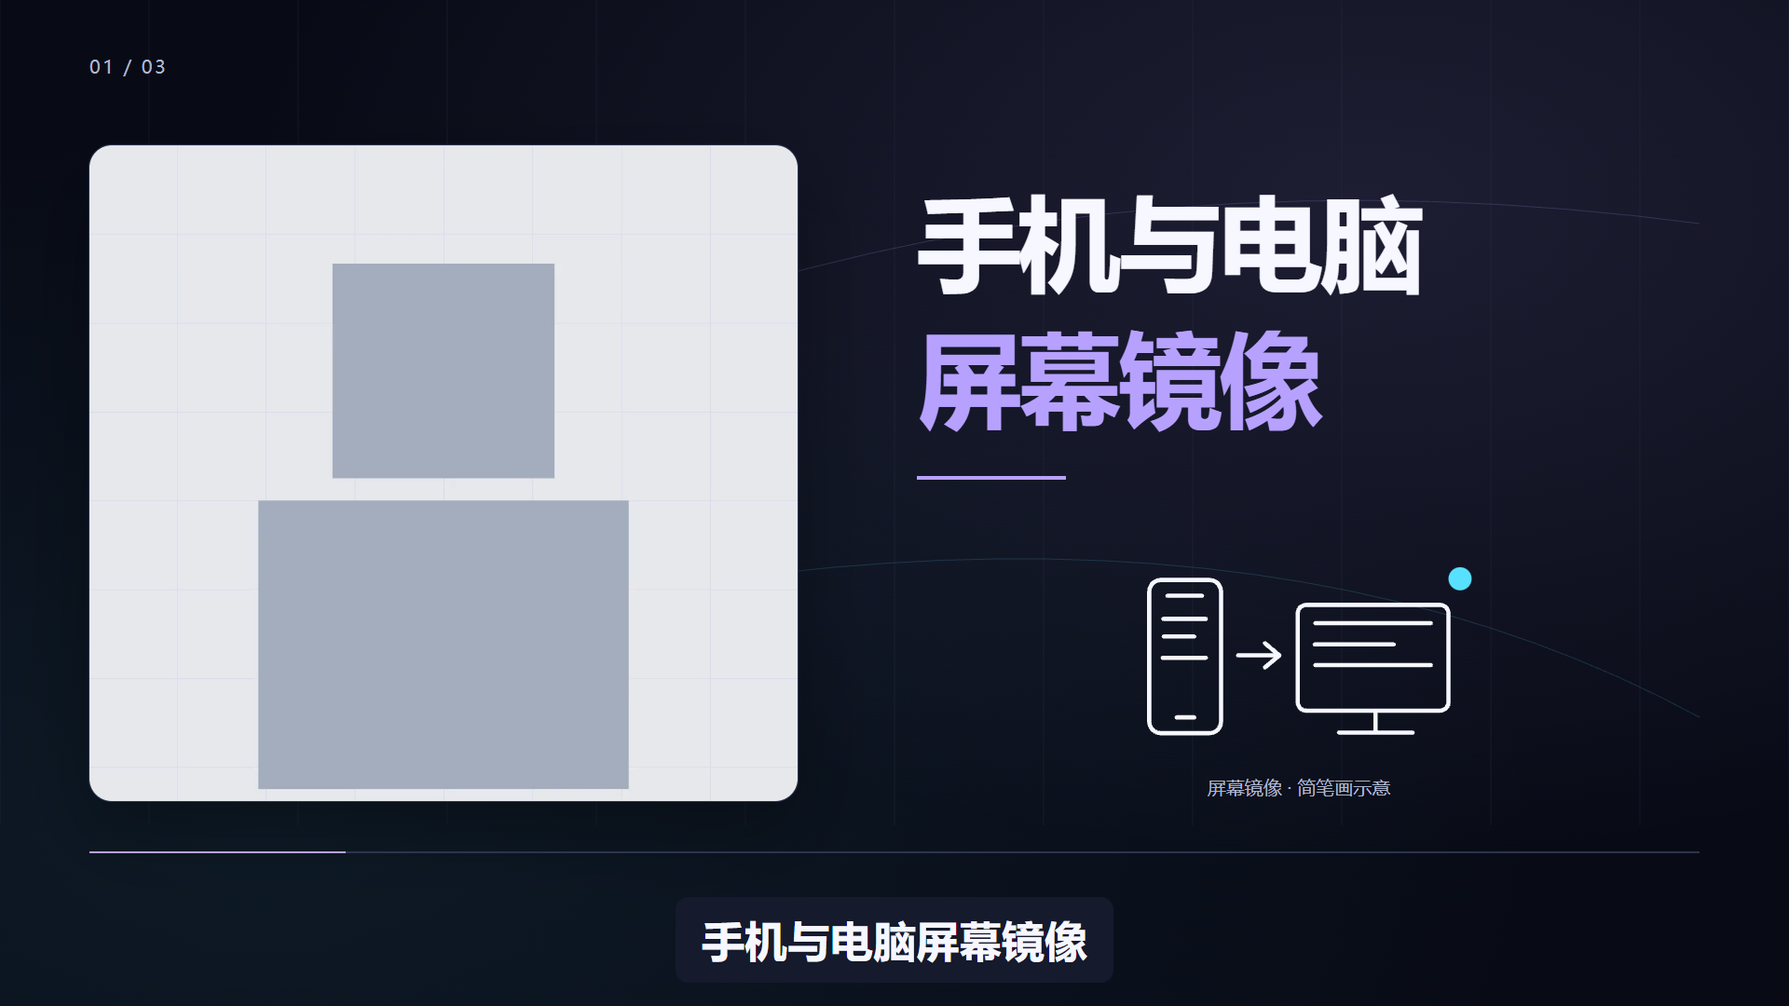
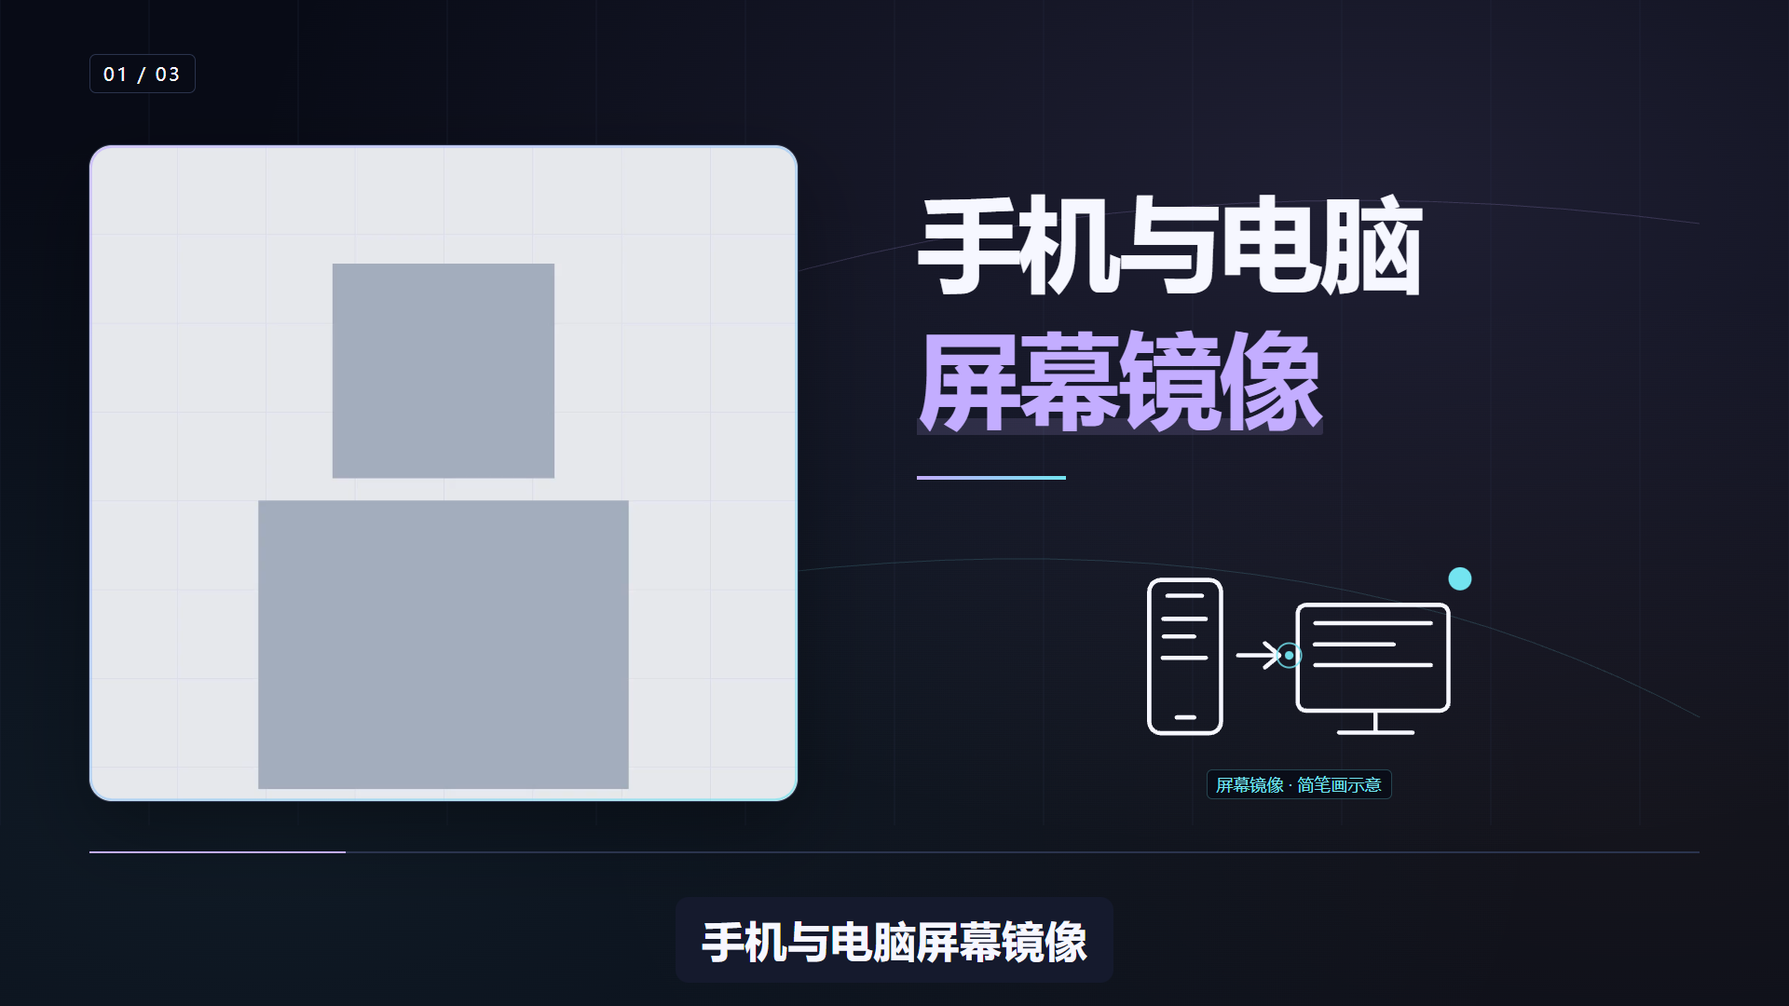
feat: refine motion rhythm layout and semantic color roles

diff --git a/packages/remotion-renderer/src/EditorialPresenterVideo.tsx b/packages/remotion-renderer/src/EditorialPresenterVideo.tsx
@@ -34,13 +34,21 @@ const weight = (text: string) => Array.from(text).reduce((n, char) => n + (char.
 const fontSize = (text: string, width: number, maximum: number) => Math.max(20, Math.min(maximum, Math.floor(width / Math.max(1, weight(text)))));
 const font = '"Microsoft YaHei","Noto Sans SC",Arial,system-ui,sans-serif';
 
+export const editorialPalette = (paper: boolean) => paper
+  ? {bg: '#F3F1FA', panel: '#FFFFFF', ink: '#201D32', muted: '#615974', main: '#6342C7', sub: '#007477', result: '#A9431E', line: '#D5CEE5'}
+  : {bg: '#080B16', panel: '#151A2D', ink: '#F6F7FF', muted: '#ADB6CF', main: '#C3ADFF', sub: '#73E4F0', result: '#FFC799', line: '#2B344E'};
+
 const Emphasis = ({lines, highlight, width, size, local, fps, color, ink}: {
   lines: string[]; highlight: number; width: number; size: number; local: number; fps: number; color: string; ink: string;
 }) => <div style={{width}}>{lines.map((text, index) => {
   const k = out((local - fps * (.28 + index * .11)) / (fps * .38));
+  const marker = smooth((local - fps * (.54 + index * .11)) / (fps * .28));
   return <div key={index} style={{overflow: 'hidden', paddingBottom: 12}}>
     <div style={{fontSize: fontSize(text, width, size), fontWeight: 900, lineHeight: 1.2, letterSpacing: '-.035em',
-      color: index === highlight ? color : ink, whiteSpace: 'nowrap', transform: `translateY(${(1 - k) * 108}%)`}}>{text}</div>
+      color: index === highlight ? color : ink, whiteSpace: 'nowrap', transform: `translateY(${(1 - k) * 108}%)`}}>
+      <span style={{position: 'relative', display: 'inline-block'}}>{index === highlight ? <span style={{position: 'absolute', left: -4, right: -4, bottom: '3%', height: '13%',
+        background: `${color}25`, transform: `scaleX(${marker})`, transformOrigin: 'left', borderRadius: 3}}/> : null}<span style={{position: 'relative'}}>{text}</span></span>
+    </div>
   </div>;
 })}</div>;
 
@@ -55,14 +63,16 @@ export const EditorialPresenterVideo = ({storyboard: s, cues}: {storyboard: Stor
   const leave = index === s.beats.length - 1 ? 1 : smooth((duration - local) / (s.fps * .16));
   const ready = out((local - s.fps * .22) / (s.fps * .28)) * leave;
   const paper = s.publicStyle === 'paper';
-  const c = paper ? {bg: '#F3F1FA', panel: '#FFFFFF', ink: '#201D32', muted: '#615974', main: '#6342C7', sub: '#007477', line: '#D5CEE5'}
-    : {bg: '#080B16', panel: '#151A2D', ink: '#F6F7FF', muted: '#ADB6CF', main: '#B7A1FF', sub: '#58E1FF', line: '#2B344E'};
+  const c = editorialPalette(paper);
   const rect = presenterRectAt(s, frame);
   const focus = mode === 'focus' && s.liteCamera ? .06 * Math.min(smooth(local / (s.fps * .4)), smooth((duration - 1 - local) / (s.fps * .4))) : 0;
   const sourceScale = Math.max(rect.w / 1920, rect.h / 886) * (1 + focus);
   const videoWidth = 1920 * sourceScale; const videoHeight = 1080 * sourceScale;
   const direction = beat.liteDirection;
   const doodle = direction?.doodle;
+  const emphasisColor = mode === 'closing' || mode === 'process' ? c.result : c.main;
+  const drawingColor = doodle?.type === 'agent-output' ? c.result : c.sub;
+  const borderDraw = smooth((local - s.fps * .08) / (s.fps * .65));
   const lines = direction?.lines ?? (beat.liteLayout === 'flow' ? (beat.liteItems ?? []).map((text) => Array.from(text).slice(0, 24).join('')) : [beat.content.structure === 'thesis-and-proof' ? beat.content.thesis : beat.text]);
   const label = direction?.eyebrow ?? '';
   const cue = cues.find((q) => q.start <= frame / s.fps && q.end > frame / s.fps);
@@ -71,7 +81,7 @@ export const EditorialPresenterVideo = ({storyboard: s, cues}: {storyboard: Stor
   const width = mode === 'hero' ? 820 : mode === 'focus' || mode === 'closing' ? 500 : 820;
   return <AbsoluteFill style={{width: 1920, height: 1080, right: 'auto', bottom: 'auto', transform: `scale(${s.width / 1920})`,
     transformOrigin: '0 0', background: c.bg, overflow: 'hidden', fontFamily: font, color: c.ink}}>
-    <AbsoluteFill style={{background: `radial-gradient(ellipse at ${75 + Math.sin(frame / 150) * 5}% 20%, ${c.main}20, transparent 58%), radial-gradient(ellipse at 15% 82%, ${c.sub}12, transparent 60%)`}}/>
+    <AbsoluteFill style={{background: `radial-gradient(ellipse at ${75 + Math.sin(frame / 150) * 5}% 20%, ${c.main}20, transparent 58%), radial-gradient(ellipse at 15% 82%, ${c.sub}12, transparent 60%), radial-gradient(ellipse at 92% 82%, ${c.result}0D, transparent 46%)`}}/>
     <svg width="1920" height="886" style={{position: 'absolute', left: 0, top: 0}} aria-hidden>
       {Array.from({length: 13}, (_, i) => <line key={i} x1={i * 160} x2={i * 160} y1="0" y2="886" stroke={c.line} opacity=".3"/>)}
       <path d="M96 660 Q840 110 1824 240" fill="none" stroke={c.main} strokeWidth="1" opacity=".18"/>
@@ -83,36 +93,45 @@ export const EditorialPresenterVideo = ({storyboard: s, cues}: {storyboard: Stor
       <Video src={staticFile(s.source.video)} disallowFallbackToOffthreadVideo
         style={{position: 'absolute', width: videoWidth, height: videoHeight,
           left: (rect.w - videoWidth) / 2, top: -focus * 250, maxWidth: 'none'}}/>
+      <svg width="100%" height="100%" viewBox={`0 0 ${rect.w} ${rect.h}`} style={{position: 'absolute', inset: 0, pointerEvents: 'none', opacity: rect.r / 24 * .65}} aria-hidden>
+        <defs><linearGradient id="presenter-border" x1="0%" y1="0%" x2="100%" y2="100%"><stop stopColor={c.main}/><stop offset="1" stopColor={c.sub}/></linearGradient></defs>
+        <rect x="1.5" y="1.5" width={rect.w - 3} height={rect.h - 3} rx={Math.max(0, rect.r - 1)} fill="none" stroke="url(#presenter-border)" strokeWidth="2.5" pathLength="1"
+          strokeDasharray="1" strokeDashoffset={1 - borderDraw}/>
+      </svg>
     </div>
     <div style={{position: 'absolute', left: 96, right: 96, top: 58, display: 'flex', justifyContent: 'space-between',
       fontSize: 20, letterSpacing: '.12em', color: c.muted, zIndex: 4, opacity: ready,
       textShadow: mode === 'focus' || mode === 'closing' ? '0 2px 10px #000' : undefined}}>
-      <span style={{color: mode === 'focus' || mode === 'closing' ? '#FFFFFF' : c.muted}}>{String(index + 1).padStart(2, '0')} / {String(s.beats.length).padStart(2, '0')}</span>
+      <span style={{color: c.ink, background: `${c.bg}DB`, padding: '7px 14px', borderRadius: 7, border: `1px solid ${c.line}`}}>{String(index + 1).padStart(2, '0')} / {String(s.beats.length).padStart(2, '0')}</span>
       <span style={{color: c.main}}>{label}</span>
     </div>
     {mode === 'process' ? <div style={{...textStyle, left: 120, top: doodle ? 170 : 226, width: 1000}}>
-      <div style={{height: 4, width: 130 * ready, background: c.main, marginBottom: 32}}/>
+      <div style={{height: 4, width: 130 * ready, background: c.result, marginBottom: 26}}/>
       {lines.map((text, i) => {
         const k = out((local - s.fps * (.3 + i * .14)) / (s.fps * .36));
-        return <div key={i} style={{display: 'flex', alignItems: 'center', gap: 32, borderBottom: `1px solid ${c.line}`,
-          padding: doodle ? '14px 0' : '26px 0', opacity: k, transform: `translateX(${(1 - k) * -40}px)`}}>
-          <span style={{fontSize: 24, color: c.sub}}>0{i + 1}</span>
-          <div style={{fontSize: fontSize(text, 820, doodle ? 82 : 100), fontWeight: 900, lineHeight: 1.22, whiteSpace: 'nowrap', color: i === (direction?.highlight ?? lines.length - 1) ? c.main : c.ink}}>{text}</div>
+        const selected = i === (direction?.highlight ?? lines.length - 1);
+        return <div key={i} style={{display: 'flex', alignItems: 'center', gap: 28, border: `1px solid ${c.line}`, borderLeft: `3px solid ${selected ? c.result : c.sub}`,
+          borderRadius: 12, marginBottom: 10, background: selected ? `${c.result}12` : `${c.panel}66`,
+          padding: '12px 18px', opacity: k, transform: `translateX(${(1 - k) * -40}px)`}}>
+          <span style={{fontSize: 20, color: selected ? c.result : c.sub, border: `1px solid ${selected ? c.result : c.sub}55`, borderRadius: 7, padding: '8px 10px'}}>0{i + 1}</span>
+          <div style={{fontSize: fontSize(text, 780, doodle ? 70 : 96), fontWeight: 900, lineHeight: 1.22, whiteSpace: 'nowrap', color: selected ? c.result : c.ink}}>{text}</div>
         </div>;
       })}
     </div> : <div style={{...textStyle, left: x, top: mode === 'closing' ? (doodle ? 230 : 640) : mode === 'focus' ? 230 : doodle ? 190 : 285,
-      ...(mode === 'focus' || mode === 'closing' ? {background: `${c.bg}ED`, padding: 30, borderLeft: `4px solid ${c.main}`, borderRadius: '0 16px 16px 0'} : {})}}>
+      ...(mode === 'focus' || mode === 'closing' ? {background: `${c.bg}ED`, padding: 30, borderLeft: `4px solid ${emphasisColor}`, borderRadius: '0 16px 16px 0'} : {})}}>
       {label && <div style={{fontSize: 24, color: c.sub, marginBottom: 28, letterSpacing: '.04em'}}>{label}</div>}
       <Emphasis lines={lines} highlight={direction?.highlight ?? lines.length - 1} width={width} size={mode === 'focus' || mode === 'closing' ? 74 : doodle ? 112 : 132}
-        local={local} fps={s.fps} color={c.main} ink={c.ink}/>
-      <div style={{width: 160 * ready, height: 4, background: c.main, marginTop: 28}}/>
+        local={local} fps={s.fps} color={emphasisColor} ink={c.ink}/>
+      <div style={{width: 160 * ready, height: 4, background: `linear-gradient(90deg,${emphasisColor},${c.sub})`, marginTop: 28}}/>
     </div>}
     {doodle ? <div data-source-doodle={doodle.type} style={{position: 'absolute', zIndex: 3,
       left: mode === 'hero' ? 984 : 120, top: 590, width: mode === 'focus' || mode === 'closing' ? 540 : mode === 'process' ? 960 : 820,
       height: 264, opacity: ready, color: c.muted,
       ...(mode === 'focus' || mode === 'closing' ? {background: `${c.bg}F0`, borderRadius: 16, padding: 12, boxSizing: 'border-box'} : {})}}>
-      <div style={{height: mode === 'focus' || mode === 'closing' ? 210 : 235}}><SourceDoodle type={doodle.type} progress={out((local - s.fps * .48) / (s.fps * .55))} accent={c.sub} ink={c.ink}/></div>
-      <div style={{fontSize: 20, textAlign: 'center', marginTop: 7}}>{doodle.label} · 简笔画示意</div>
+      <div style={{height: mode === 'focus' || mode === 'closing' ? 210 : 235}}><SourceDoodle type={doodle.type} progress={out((local - s.fps * .48) / (s.fps * .55))}
+        actionProgress={smooth((local - s.fps * .85) / (s.fps * .42))} accent={drawingColor} ink={c.ink}/></div>
+      <div style={{fontSize: 18, textAlign: 'center', marginTop: 5}}><span style={{color: drawingColor, border: `1px solid ${drawingColor}44`, padding: '3px 10px', borderRadius: 6,
+        background: `${c.bg}CE`}}>{doodle.label} · 简笔画示意</span></div>
     </div> : null}
     <div style={{position: 'absolute', left: 96, right: 96, top: 914, height: 2, background: c.line, zIndex: 4}}>
       <div style={{height: '100%', width: `${clamp(frame / (Math.ceil(s.duration * s.fps) - 1)) * 100}%`, background: c.main}}/>

diff --git a/packages/remotion-renderer/src/illustrations/SourceDoodle.tsx b/packages/remotion-renderer/src/illustrations/SourceDoodle.tsx
@@ -8,20 +8,25 @@ type DoodleType = (typeof PUBLIC_DOODLE_TYPES)[number];
 /** Generic conceptual diagrams. No logos, screenshots or claims of device operation. */
 export const SourceDoodle = ({type, ...props}: IllustrationProps & {type: DoodleType}): ReactElement => {
   const shared = {...props, normalized: true};
-  if (type === 'phone-mirror') return <Frame {...shared}>
+  const a = Math.max(0, Math.min(1, props.actionProgress ?? 0));
+  const route = (from: number, to: number, y: number) => <g data-doodle-action="source-to-result" opacity={props.progress > .7 ? 1 : 0}>
+    <circle cx={from + (to - from) * a} cy={y} r="7" fill={props.accent} opacity={a > 0 && a < 1 ? .95 : 0}/>
+    <circle cx={to} cy={y} r={8 + 12 * a} stroke={props.accent} strokeWidth="3" fill="none" opacity={a * .8}/>
+  </g>;
+  if (type === 'phone-mirror') return <Frame {...shared} overlay={route(220, 304, 174)}>
     <rect x="74" y="50" width="118" height="252" rx="19"/>
     <path d="M104 76h57M119 276h29M97 114h70M98 143h50M96 178h71"/>
     <rect x="318" y="91" width="248" height="174" rx="14"/>
     <path d="M347 121h190M346 156h130M347 190h190M446 266v34M386 301h121M220 174h68m-24-20 24 20-24 20"/>
   </Frame>;
-  if (type === 'notes') return <Frame {...shared}>
+  if (type === 'notes') return <Frame {...shared} overlay={route(240, 339, 174)}>
     <path d="M72 77h124v176H72zM96 59h124v176M96 117h69M96 150h69M96 184h44"/>
     <path d="M240 174h75m-23-20 23 20-23 20"/>
     <rect x="358" y="53" width="196" height="254" rx="14"/>
     <path d="M385 88h138M386 125h111M386 162h137M386 199h93M387 249h87"/>
     <path d="m492 247 36-40 14 14-36 40-25 12zM528 207l14 14" stroke={props.accent}/>
   </Frame>;
-  if (type === 'agent-output') return <Frame {...shared}>
+  if (type === 'agent-output') return <Frame {...shared} overlay={route(281, 395, 181)}>
     <rect x="92" y="100" width="166" height="166" rx="21"/>
     <rect x="129" y="136" width="92" height="93" rx="12"/>
     <path d="M116 76v24M154 76v24M192 76v24M230 76v24M116 266v24M154 266v24M192 266v24M230 266v24M66 128h26M66 168h26M66 208h26M66 246h26"/>

diff --git a/tests/public-lite.test.ts b/tests/public-lite.test.ts
@@ -7,7 +7,7 @@ import {liteCameraScale, liteFlowFontSize} from '../packages/remotion-renderer/s
 import {buildCompositionPlan} from '../packages/remotion-renderer/src/VideoPackaging';
 import {generateHyperFramesProject} from '../packages/hyperframes-adapter/src/generate';
 import {selectRepresentativeBeats} from '../scripts/lib/artifact-qa';
-import {presenterRectAt} from '../packages/remotion-renderer/src/EditorialPresenterVideo';
+import {editorialPalette, presenterRectAt} from '../packages/remotion-renderer/src/EditorialPresenterVideo';
 
 const input = {
   id: 'public-test', title: 'Public test', edition: 'public-lite' as const,
@@ -17,6 +17,21 @@ const input = {
 };
 
 describe('public-lite product boundary', () => {
+  it('keeps every typography color readable against both stable surfaces', () => {
+    const luminance = (hex: string) => {
+      const values = [1, 3, 5].map((i) => parseInt(hex.slice(i, i + 2), 16) / 255).map((v) => v <= .04045 ? v / 12.92 : ((v + .055) / 1.055) ** 2.4);
+      return values[0] * .2126 + values[1] * .7152 + values[2] * .0722;
+    };
+    for (const paper of [false, true]) {
+      const palette = editorialPalette(paper);
+      for (const foreground of [palette.ink, palette.muted, palette.main, palette.sub, palette.result]) {
+        for (const background of [palette.bg, palette.panel]) {
+          const a = luminance(foreground); const b = luminance(background);
+          expect((Math.max(a, b) + .05) / (Math.min(a, b) + .05)).toBeGreaterThanOrEqual(4.5);
+        }
+      }
+    }
+  });
   it('keeps semantic doodle labels traceable to the spoken source', () => {
     const cues = [{index: 1, start: 0, end: 4, text: '通过手机与电脑的屏幕镜像完成展示'}];
     const plan = planStoryboard({...input, cues, probe: {...input.probe, duration: 4}, litePresenter: true,

diff --git a/packages/remotion-renderer/test/illustrations.test.tsx b/packages/remotion-renderer/test/illustrations.test.tsx
@@ -7,6 +7,15 @@ import {SourceDoodle} from '../src/illustrations/SourceDoodle';
 import {PUBLIC_DOODLE_TYPES} from '../../core/src/schema';
 
 describe('illustrationRegistry', () => {
+  it('advances and settles conceptual route indicators without restarting the drawing', () => {
+    const middle = renderToStaticMarkup(<SourceDoodle type="phone-mirror" progress={1} actionProgress={.5} accent="#73E4F0" ink="#F6F7FF"/>);
+    const end = renderToStaticMarkup(<SourceDoodle type="phone-mirror" progress={1} actionProgress={1} accent="#73E4F0" ink="#F6F7FF"/>);
+    expect(middle).toContain('data-doodle-action="source-to-result"');
+    expect(middle).toContain('cx="262"');
+    expect(end).toContain('cx="304"');
+    expect(end).toContain('stroke-dashoffset:0');
+    expect(end).toBe(renderToStaticMarkup(<SourceDoodle type="phone-mirror" progress={1} actionProgress={1} accent="#73E4F0" ink="#F6F7FF"/>));
+  });
   it('supports new source diagrams and legacy drawings with normalized strokes and selected ink', () => {
     for (const type of PUBLIC_DOODLE_TYPES) {
       const markup = renderToStaticMarkup(<SourceDoodle type={type} progress={.5} accent="#58E1FF" ink="#F6F7FF"/>);

diff --git a/packages/remotion-renderer/src/illustrations/Frame.tsx b/packages/remotion-renderer/src/illustrations/Frame.tsx
@@ -8,7 +8,7 @@ const normalizedPaths = (children: ReactNode): ReactNode => Children.map(childre
     ...(child.props.children ? {children: normalizedPaths(child.props.children)} : {})});
 });
 
-export const Frame = ({progress, accent, children, ink = '#252933', normalized = false}: IllustrationProps & {children: ReactNode}) => {
+export const Frame = ({progress, accent, children, ink = '#252933', normalized = false, overlay}: IllustrationProps & {children: ReactNode; overlay?: ReactNode}) => {
   const p = Math.max(0, Math.min(1, progress));
   return (
     <svg viewBox="0 0 640 360" width="100%" height="100%" fill="none" xmlns="http://www.w3.org/2000/svg" aria-hidden="true">
@@ -24,6 +24,7 @@ export const Frame = ({progress, accent, children, ink = '#252933', normalized =
         {normalized ? normalizedPaths(children) : children}
       </g>
       <circle cx="585" cy="48" r={10 + p * 9} fill={accent} opacity={0.55 + p * 0.45} />
+      {overlay}
     </svg>
   );
 };

diff --git a/packages/remotion-renderer/src/illustrations/types.ts b/packages/remotion-renderer/src/illustrations/types.ts
@@ -6,4 +6,5 @@ export type IllustrationProps = {
   outcome?: string;
   ink?: string;
   normalized?: boolean;
+  actionProgress?: number;
 };

diff --git a/README.md b/README.md
@@ -6,10 +6,10 @@
 
 |功能|说明|
 |---|---|
-|配色|dark 深色、paper 浅色；每条视频保持统一风格|
+|配色|dark 深色、paper 浅色；紫色标重点、青色标过程、少量暖色标结果，每条视频保持统一风格|
 |排版|title 开场标题、card 侧边信息卡、flow 两至三个原稿条目的展示|
 |真人镜头|一个连续人物画面在全幅、左右分栏与单窗之间收放；可选1.06倍轻推近|
-|动效|标题逐行遮罩揭示、关键词强调、图文分栏、单窗收放、条目错峰与阅读停留|
+|动效|标题逐行揭示、关键词划线、人物窗口描边、单窗收放、条目错峰、简笔画描线与流动提示|
 |简笔画|手机镜像、文案收集、Agent输出与六种已有线稿，按语义描线出现并标明“示意”|
 |交付检查|字幕、安全区、连续原声、完整解码、黑帧和文件哈希|
 
@@ -62,6 +62,8 @@ npm run package-video -- --srt INPUT.srt --out RUN --output-mode overlay --width
 Agent应先逐句分析语义，并用 `--direction DIRECTION.json` 提炼原句关键词与构图意图。该文件按SRT序号指定 `mode`、`lines`、可选 `eyebrow` 和 `highlight`，每个上屏词必须原样出现在对应原句中。它只描述展示方式，不改字幕、原声或源视频。示例见 [direction.json](examples/current-demo/direction.json)。所有审核阶段保持相同输入和参数。
 
 需要简笔画时，在相应方向条目中加入 `"doodle": {"type": "phone-mirror", "label": "屏幕镜像"}`。标签必须取自该句原稿；图形是概念示意，不是真实设备操作或截图。当前简笔画用于单窗合成MP4，图形区与文字、人物和字幕分开。支持的类型见 [功能与限制](references/public-lite.md)。
+
+v0.6细化了动效与排版：每页先建立构图，再揭示重点，描线后给出一次流动提示，随后保持阅读停留。辅助色按语义分工，不逐句随机换色。真人原色与唯一原声保持不变。
 
 ## 检查与限制
 

diff --git a/references/public-lite.md b/references/public-lite.md
@@ -4,6 +4,8 @@ New CLI jobs set `edition: public-lite`. Source timing, continuous voice, captio
 
 Styles are `dark` and `paper`, fixed for the entire video. Single-presenter editorial composition supports full-frame emphasis, left/right split layouts and a bounded single window with frame-driven transitions. Duplicate presenter windows, multi-window choreography, 3D layouts and a full advanced template library are outside this workflow.
 
+The v0.6 refinement assigns purple to keywords, cyan to process and a restrained warm accent to results and closing. Typography colors meet at least 4.5:1 contrast on the two stable background surfaces. Window outlines, keyword underline reveals and one short source-to-result indicator add motion before a stable hold. Process rows use compact spacing and separate emphasis surfaces; a drawing region remains reserved below them. The source video is never recolored by the theme.
+
 The repository contains the Skill, planner, renderers, tests and reproducible examples. Private source media and local job outputs are not redistributed without explicit authorization.
 
 ## Captions and camera

diff --git a/SKILL.md b/SKILL.md
@@ -40,6 +40,7 @@ Public-lite currently supports 16:9 horizontal input only. SRT-only `--output-mo
 - Prefer readable 1.6–3.2 seconds where supported by the source; no beat exceeds six seconds. Do not invent layouts to satisfy a template count.
 - Two styles and a single presenter are supported. Duplicate presenter windows, multi-window choreography and a full advanced template library are outside the current workflow. Historical V2 files and line illustrations remain readable; consult [V2 structures](references/visual-structures.md) only when maintaining old projects.
 - All animation is frame-driven and seek-safe. No timers, stateful CSS transitions, randomness or playback-dependent state.
+- Keep a deliberate motion sequence: establish the presenter window, reveal literal keywords, draw a highlight or semantic diagram, then hold. Use purple for emphasis, cyan for process and a small warm accent for results or closing. Do not animate the source person's colors or add repeated motion to compensate for weak content. Process rows must retain room above any drawing region.
 
 ## Semantic line drawings
 

diff --git a/PUBLIC_RELEASE_REPORT.md b/PUBLIC_RELEASE_REPORT.md
@@ -1,4 +1,14 @@
-# Version 0.5.0 verification
+# Version 0.6.0 verification
+
+## Current refinements
+
+- Added frame-driven keyword markers, presenter-window border drawing, and a one-pass source-to-result indicator in the three device/document diagrams. Motion settles into a readable hold.
+- Refined process row spacing, emphasis surfaces, drawing annotations and header contrast. Purple/cyan remain the primary roles, with a restrained warm result/closing accent in both styles. Typography colors pass 4.5:1 contrast checks on stable canvas and panel surfaces.
+- 116 tests in 17 files passed. Current real and synthetic preview outputs pass full decode and black-frame checks; source color and the single continuous audio track are preserved.
[1 lines of base64/hex data omitted]
+- Visual samples are engineering review. Full continuous playback and user acceptance are recorded separately.
+
+## Previous version 0.5.0 verification
 
 ## Current additions
 
